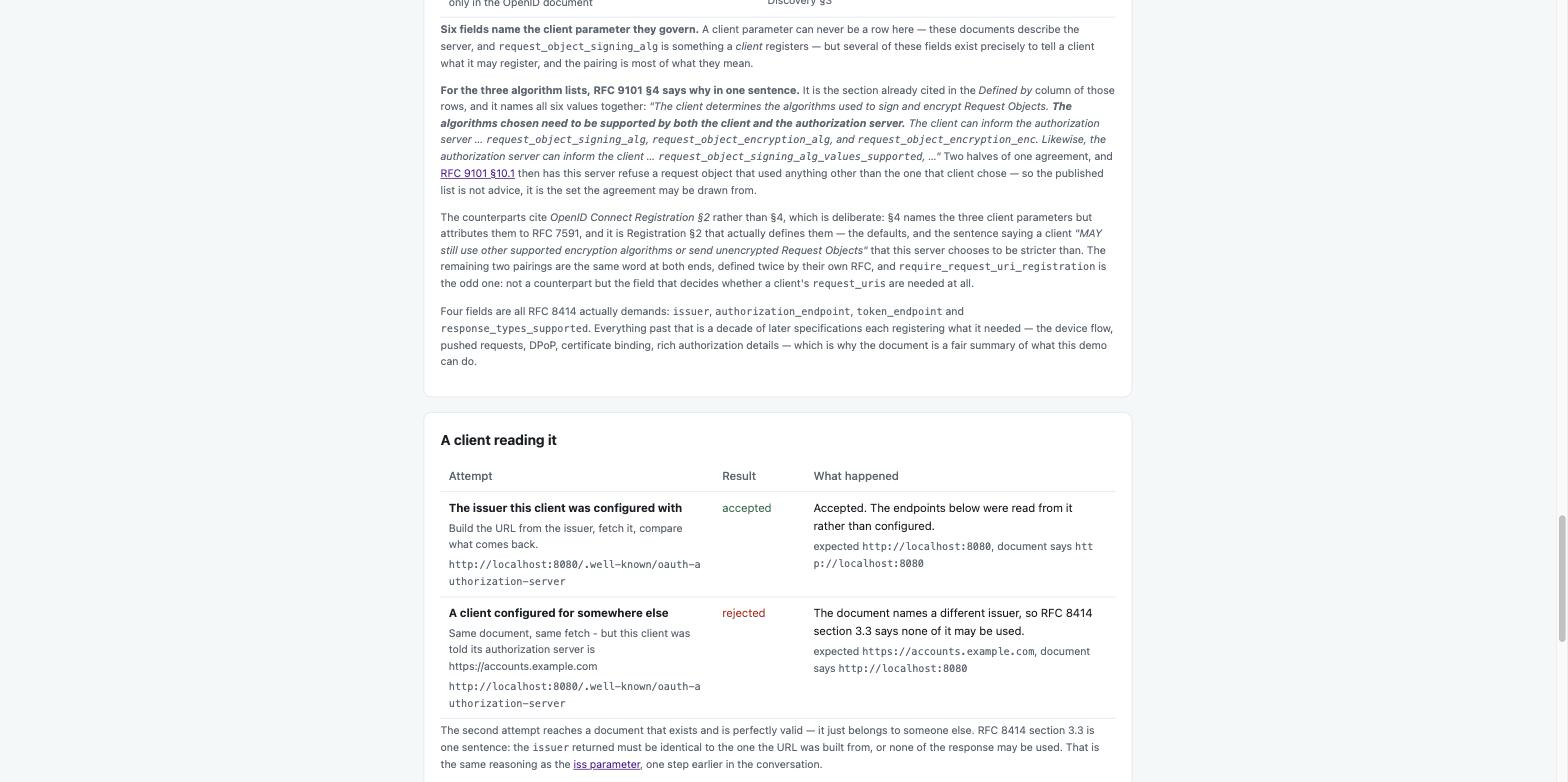
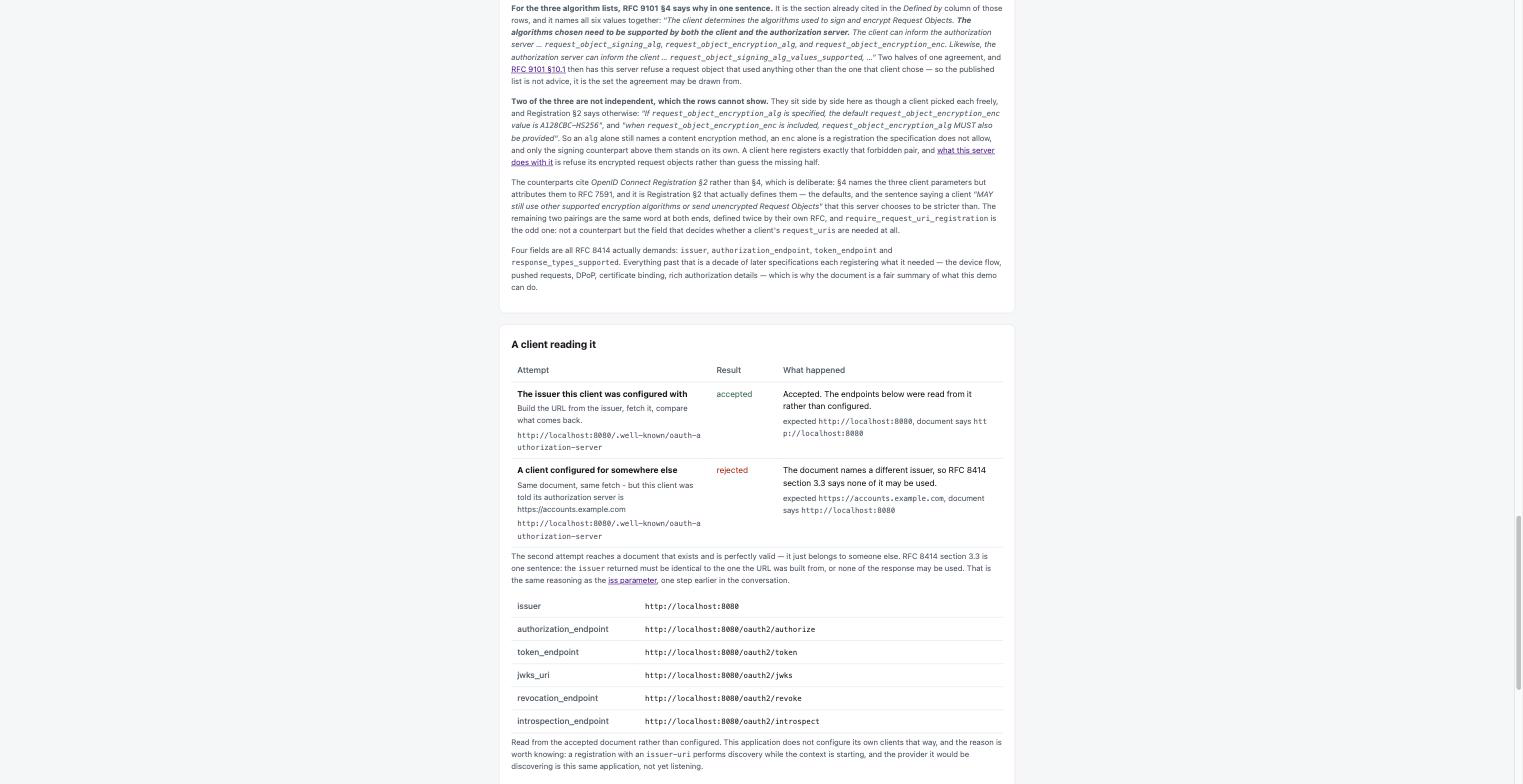
docs: record the coupling between the two encryption parameters 📝🔗
Quotes the two sentences that tie them, and refreshes the screenshot, which
was taken one paragraph ago.

Changed region(s): [[0.2777, 0.0, 0.7098, 1.0], [0.9875, 0.6752, 1.0, 0.89]]

diff --git a/README.md b/README.md
@@ -365,7 +365,8 @@ defines each.
 
 ![The client counterparts](docs/images/150-metadata-client-counterparts.png)
 
-**151. Metadata** — why the pairings exist, in the specification's own words.
+**151. Metadata** — why the pairings exist in the specification's own words, and which two of them
+are coupled.
 
 ![Two halves of one agreement](docs/images/151-metadata-both-halves.png)
 
@@ -2587,6 +2588,18 @@ already cited in those rows' *Defined by* column, because it names all six value
 Two halves of one agreement. RFC 9101 §10.1 then has this server refuse a request object that used
 anything other than the one that client chose — so the published list is not advice, it is the set
 the agreement may be drawn from.
+
+**Two of the three counterparts are not independent, which the rows cannot show.** They sit side by
+side as though a client picked each freely. Registration §2 says otherwise:
+
+> If `request_object_encryption_alg` is specified, the default `request_object_encryption_enc` value
+> is `A128CBC-HS256`. When `request_object_encryption_enc` is included,
+> `request_object_encryption_alg` MUST also be provided.
+
+So an `alg` alone still names a content encryption method, an `enc` alone is a registration the
+specification does not allow, and only the signing counterpart stands on its own. A client here
+registers exactly that forbidden pair, and [what this server does with it](#request_object_encryption_enc)
+is refuse its encrypted request objects rather than guess the missing half.
 
 The counterparts cite **OIDC Registration §2** rather than §4, which is deliberate: §4 names the
 three client parameters but attributes them to RFC 7591, which does not define them. Registration §2
